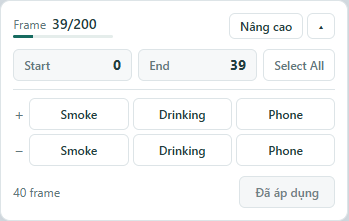
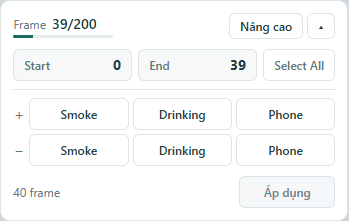
Release v1.8.2 without Apply completion notices

Changed region(s): [[0.7163, 0.8416, 0.9169, 0.9231]]

diff --git a/complete-next.js b/complete-next.js
@@ -450,11 +450,11 @@
       clearTimeout(hideTimer);
     }, { once: true });
 
-    async function runEdit(progress, edit) {
+    async function runEdit(edit) {
       if (signal.aborted || button.disabled || clearButton.disabled) return;
       button.disabled = clearButton.disabled = true;
       syncEditButtons();
-      notify(progress, 'progress');
+      notify('');
       try {
         await edit();
       } catch (error) {
@@ -475,33 +475,25 @@
       const operation = mode === 'add' ? { mode, targets: [id] } : { mode, sources: [id] };
       const change = planCVATRangeBatch({ ...snapshot, operations: [operation] });
       const count = change.create.length + change.delete.length;
-      if (!count) {
-        notify('Không có thay đổi cho ' + label + ' trong job này.');
-        return;
-      }
-      if (mode === 'remove' && !window.confirm('Xóa ' + count + ' tag ' + label + ' khỏi toàn bộ job đang mở?')) {
-        notify('');
-        return;
-      }
+      if (!count) return;
+      if (mode === 'remove' && !window.confirm('Xóa ' + count + ' tag ' + label + ' khỏi toàn bộ job đang mở?')) return;
       const result = await cvatEventBridge.call('applyRange', {
         ...args, low: snapshot.low, high: snapshot.high, key: snapshot.key,
         create: change.create, remove: change.delete.map((item) => item.clientID),
       }, 120000);
       if (signal.aborted) return;
       if (result.stale) throw new Error('Tag trong job vừa thay đổi. Kiểm tra rồi bấm lại.');
-      notify((mode === 'add' ? 'Đã thêm ' : 'Đã xóa ') + count + ' tag ' + label + '. ' + describeCVATSave(result.save));
     }
     for (const counter of counters) {
-      counter.add.onclick = () => { void runEdit('Đang đọc tag của job…', () => editJobEvent(counter, 'add')); };
-      counter.remove.onclick = () => { void runEdit('Đang đọc tag của job…', () => editJobEvent(counter, 'remove')); };
+      counter.add.onclick = () => { void runEdit(() => editJobEvent(counter, 'add')); };
+      counter.remove.onclick = () => { void runEdit(() => editJobEvent(counter, 'remove')); };
     }
     for (const [node, direction] of [[undo, 'undo'], [redo, 'redo']]) {
       node.onclick = () => {
-        void runEdit('Đang cập nhật lịch sử Apply…', async () => {
+        void runEdit(async () => {
           const result = await cvatEventBridge.call('replayRangeEdit', { jobId: job.jobId, direction }, 120000);
           if (signal.aborted) return;
           historyStatus = result.editHistory;
-          notify((direction === 'undo' ? 'Đã hoàn tác Apply. ' : 'Đã làm lại Apply. ') + describeCVATSave(result.save));
         });
       };
     }

diff --git a/complete-next.css b/complete-next.css
@@ -184,11 +184,25 @@ dialog.cvat-event-clear-dialog {
 .cvat-job-redo::after { content: "↷"; }
 .cvat-event-complete-next > button.ant-btn { min-height: 32px; font-size: 12px; border-radius: 6px; }
 .cvat-event-complete-next > button.ant-btn-dangerous { background: #f9eeee; border-color: #efdada; }
-.cvat-event-complete-status { position: relative; width: max-content; max-width: min(250px, calc(100vw - 24px)); padding-right: 32px; }
+.cvat-event-complete-status {
+  display: grid;
+  grid-template-columns: minmax(0, 1fr) 24px;
+  align-items: start;
+  gap: 6px;
+  margin-top: 8px;
+  padding: 8px;
+  font-size: 12px;
+  white-space: normal;
+}
+.cvat-event-complete-status > [role="status"] {
+  overflow-wrap: anywhere;
+  max-height: 7em;
+  overflow: auto;
+}
 .cvat-event-complete-status:has(> [role="status"]:empty) { display: none; }
 .cvat-event-complete-status[data-kind="error"] { border-color: #d8a2a8; background: #fdf1f2; color: #7c1f2a; }
 .cvat-event-complete-next button.cvat-event-status-close {
-  position: absolute; top: 4px; right: 4px; width: 24px; height: 24px; padding: 0;
+  display: grid; place-items: center; width: 24px; height: 24px; padding: 0;
   border: 0; border-radius: 5px; background: transparent; color: var(--muted);
   font: 600 18px/1 "Segoe UI", system-ui, sans-serif; cursor: pointer;
 }
@@ -300,6 +314,8 @@ dialog.cvat-event-clear-dialog {
 .cvat-quick-footer { gap: 8px; margin-top: 8px; }
 .cvat-quick-info {
   flex: 1;
+  min-width: 0;
+  overflow-wrap: anywhere;
   max-height: 28px;
   overflow: auto;
   color: #912f36;

diff --git a/cvat-bridge.js b/cvat-bridge.js
@@ -483,7 +483,12 @@
       (result) => reply({ ok: true, result }),
       (error) => {
         if (!(error instanceof BridgeError)) console.warn('CVAT Event Hotkeys bridge:', error);
-        reply({ ok: false, error: error instanceof BridgeError ? error.message : `Lỗi CVAT: ${error?.message || error}` });
+        const message = String(error?.message || error);
+        const gatewayError = /(?:^|\D)(?:502|503|504|520|521|522|523|524)(?!\d)|origin is overloaded|bad gateway|service unavailable|gateway time.?out/i;
+        const summary = gatewayError.test(message) ? 'CVAT tạm thời không phản hồi. Vui lòng thử lại sau.'
+          : /<!doctype\s+html|<html[\s>]/i.test(message) ? 'CVAT trả về phản hồi không hợp lệ.'
+            : `Lỗi CVAT: ${message}`;
+        reply({ ok: false, error: error instanceof BridgeError ? message : summary });
       },
     );
   });

diff --git a/range-editor.js b/range-editor.js
@@ -339,8 +339,6 @@ function attachCVATRangeEditor(control, slider, anchor) {
         state.notice = staleNotice;
       } else {
         applied();
-        apply.textContent = 'Đã áp dụng';
-        setTimeout(() => { apply.textContent = 'Áp dụng'; }, 900);
       }
     } catch (error) {
       if (jobSignal.aborted) return;
@@ -675,9 +673,6 @@ function attachCVATRangeEditor(control, slider, anchor) {
           return;
         }
         applied();
-        const { add, replace, remove } = change.counts;
-        control.notify('Frame ' + low + '–' + high + ': thêm ' + add + ', đổi ' + replace + ', xóa ' +
-          remove + ' tag. ' + describeCVATSave(result.save));
         close();
       } catch (error) {
         busy = false;

diff --git a/tests/simulated_cvat.py b/tests/simulated_cvat.py
@@ -287,7 +287,6 @@ def main():
                 reads = sim('takeReads()')
                 check(reads and all(low <= f <= high for f in reads), f'{mode}: only frames {low}-{high} read ({len(reads)} reads)')
                 check(sim('exports') == exports_before, f'{mode}: no whole-job export')
-                return status.inner_text()
 
             def assert_range_edit(name, low, high, before, after):
                 outside = [f for f in range(100) if not (low <= f <= high)]
@@ -301,11 +300,11 @@ def main():
             print('Nâng cao dialog (local only)')
             mark = server.mark()
             before = tags_by_frame()
-            message = run_edit(10, 30, 'add', target=1, expect_preview='Thêm 13')
+            run_edit(10, 30, 'add', target=1, expect_preview='Thêm 13')
             after = tags_by_frame()
             check(all(1 in after[str(f)] for f in range(10, 31) if f not in (12, 13)), 'add: every valid frame has event_smoke')
             check(after['13'] == before['13'], 'add: deleted frame 13 not tagged')
-            check('Chưa lưu lên server' in message, f'status explains saving: {message[:70]}…')
+            check(status.text_content() == '', 'successful Advanced Apply shows no toolbar notice')
             assert_range_edit('add', 10, 30, before, after)
             badge_matches('after Apply')
 
@@ -450,7 +449,9 @@ def main():
                 const commit = annotations.commit;
                 annotations.commit = async () => {
                     annotations.commit = commit;
-                    await new Promise((_, reject) => { window.failApply = () => reject(new Error('Test retry')); });
+                    await new Promise((_, reject) => {
+                        window.failApply = () => reject(new Error('HTTP 503: origin is overloaded or misconfigured.'));
+                    });
                 };
             }""")
             refreshes = sim('refreshes')
@@ -460,7 +461,7 @@ def main():
                   panel.locator('button:enabled').count() == 0, 'Apply locks marks, choices and controls')
             page.keyboard.press('Enter')
             page.evaluate('window.failApply()')
-            page.wait_for_function('document.querySelector(".cvat-quick-info").textContent.includes("Test retry")')
+            page.wait_for_function('document.querySelector(".cvat-quick-info").textContent.includes("CVAT tạm thời không phản hồi")')
             check(quick_apply.is_enabled() and selected.count() == 3 and tags_by_frame() == before,
                   'failure keeps the entire draft and unlocks retry')
             # Unannounced native edit between preview and retry forces another review.
@@ -676,6 +677,13 @@ def main():
             check(not box.is_visible(), 'result message hides itself after 8 s')
             page.evaluate('document.getElementById("cvat-event-complete-status").textContent = "x"')
             check(box.is_visible(), 'message box visible again')
+            page.evaluate('document.getElementById("cvat-event-complete-status").textContent = "LongMessage".repeat(120)')
+            check(box.evaluate('''node => {
+                const text = node.querySelector('[role="status"]');
+                const close = node.querySelector('button');
+                return node.scrollWidth <= node.clientWidth && text.scrollHeight > text.clientHeight &&
+                    text.getBoundingClientRect().right < close.getBoundingClientRect().left;
+            }'''), 'long notices stay within the card and clear of the close button')
             page.locator('.cvat-event-status-close').click()
             check(not box.is_visible(), '× hides the message box at once')
             check(page.evaluate('sessionStorage.getItem("loads")') == '1', 'Clear All did not reload the page')
@@ -741,6 +749,7 @@ def main():
             before = tags_by_frame()
             phone_add.click()
             wait('window.__sim.count("tag", 3) === 98', 'whole-job add fills all eligible frames')
+            check(status.text_content() == '', 'whole-job Apply shows no toolbar notice')
             check(tags_by_frame() == expected_after(before, 0, 99, [('add', [], 3)], VALID),
                   'whole-job add affects only Phone and skips deleted frames')
             page.once('dialog', lambda d: d.dismiss())
@@ -826,7 +835,10 @@ def main():
             workspace = page.locator('.cvat-workspace-selector .ant-select-selection-item')
             workspace.evaluate("n => n.textContent = 'Standard'")
             page.keyboard.press('Control+a')
-            check(native() == ['a'] and start.text_content() == 'Start 0', 'Standard receives native Ctrl+A')
+            marks = page.evaluate('JSON.parse(sessionStorage.getItem("cvat-event-range:77"))')
+            received = native()
+            check(received == ['a'] and marks == {'start': 0, 'end': 99},
+                  f'Standard receives native Ctrl+A and keeps the saved marks ({received}, {marks})')
             page.evaluate('window.getSelection().removeAllRanges()')
             workspace.evaluate("n => n.textContent = 'Tag annotation'")
             page.keyboard.press('Control+a')

diff --git a/docs/development.md b/docs/development.md
@@ -7,7 +7,7 @@ This guide is for developers who continue work on this repository. User document
 - Repository: https://github.com/thunguyen-abc/cvat-hotkey, branch `main`.
 - Platform: Chrome extension, Manifest V3, installed with **Load unpacked**.
 - Target site: https://cvat-tai.abcstudio.online. Reference job: `/tasks/681/jobs/6306`.
-- Release baseline: `v1.8.1` (two-row Quickstart, whole-job event actions and independent Apply Undo/Redo). Check GitHub Releases before choosing the next version.
+- Release baseline: `v1.8.2` (removes Apply completion notices and improves error layout). Check GitHub Releases before choosing the next version.
 
 The extension adds features to the existing CVAT annotation UI. It does not need any change to the CVAT server. Continue with this codebase; do not rewrite it.
 
